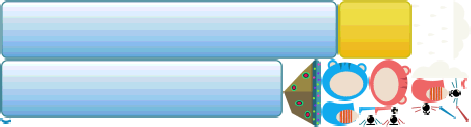
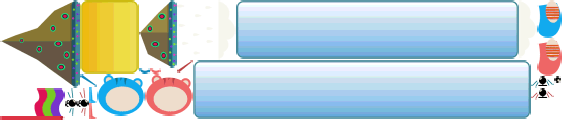
Dash game

diff --git a/goa/frameworks/runtime-src/Classes/mini_games/Dash.cpp b/goa/frameworks/runtime-src/Classes/mini_games/Dash.cpp
@@ -58,12 +58,17 @@ bool Dash::init()
 	Size visibleSize = Director::getInstance()->getVisibleSize();
 	Vec2 origin = Director::getInstance()->getVisibleOrigin();
 
+	_jumpCount = 0;
+	_enemyJumpCount = 0;
 
 	auto spritecache1 = SpriteFrameCache::getInstance();
 	spritecache1->addSpriteFramesWithFile("dash/dash.plist");
 
-	auto bg = CSLoader::createNode("dash/DashScene.csb");
-	this->addChild(bg);
+	_bg = CSLoader::createNode("dash/DashScene.csb");
+	if (visibleSize.width > 2560) {
+		_bg->setPositionX((visibleSize.width - 2560) / 2);
+	}
+	this->addChild(_bg);
 
 	_synonyms = TextGenerator::getInstance()->getSynonyms(5);
 	//CCLOG("synonyms = %s", _synonyms.at(1));
@@ -78,13 +83,17 @@ bool Dash::init()
 	_stepLayer->setPositionX(0);
 	this->addChild(_stepLayer);
 
-	int char_height = 500;
+	float xx;
+	float yy;
+
 	for (int j = 4; j > 0; j--) {  // j reffer to number of Players
 		for (int i = 1; i < 15; i++) {  // i reffer to number of steps (words)
 			auto obj1 = Sprite::createWithSpriteFrameName("dash/step.png");
 			obj1->setPositionX((visibleSize.width / 5) * i +(obj1->getContentSize().width/2)*j);
 			obj1->setPositionY(visibleSize.height * 0.4 +( (obj1->getContentSize().height/3) * j));
 			obj1->setAnchorPoint(Vec2(1, 0.5));
+			xx = (visibleSize.width / 5) * i + (obj1->getContentSize().width / 2)*j;
+			yy = (visibleSize.height * 0.4 + ((obj1->getContentSize().height / 3) * j));
 			_stepLayer->addChild(obj1);
 		}
 	}
@@ -95,19 +104,27 @@ bool Dash::init()
 	this->addChild(_character);
 	
 	for (int j = 0; j < 2; j++) {  
-		for (int i = 1; i < 3; i++) {  
+		for (int i = 0; i <2; i++) { 
 			auto obj1 = Sprite::createWithSpriteFrameName("dash/big_button.png");
-			obj1->setPositionX(visibleSize.width/5 *(i* 2));
+			float xx = visibleSize.width - (obj1->getContentSize().width * 2);
+			obj1->setPositionX((xx/3) *(i+1) + obj1->getContentSize().width/2 *(i+1) + obj1->getContentSize().width / 2 * (i));
 			obj1->setPositionY(obj1->getContentSize().height/1.3 + (visibleSize.height * 0.14) * (j));
 			this->addChild(obj1);
 			_choiceButton.pushBack(obj1);
 		}
 	}
 
+
 	_otherCharacter = CSLoader::createNode("dash/character.csb");
 	_otherCharacter->setPositionX((visibleSize.width / 5) + 220);
 	_otherCharacter->setPositionY((visibleSize.height * 0.4 * 1) + 320);
 	_stepLayer->addChild(_otherCharacter);
+
+
+	auto flag = Sprite::createWithSpriteFrameName("dash/flag.png");
+	flag->setPositionX(xx + 500);
+	flag->setPositionY(yy);
+	_stepLayer->addChild(flag);
 
 
 	wordGenerateWithOptions();
@@ -127,19 +144,41 @@ void Dash::wordCheck()
 
 void Dash::myCharacterJumping()
 {
+	_jumpCount++;
 	Size visibleSize = Director::getInstance()->getVisibleSize();
 	auto jump = JumpBy::create(2, Vec2(0, 0), 200, 1);
 	_character->runAction(jump);
 	wordCheck();
 	auto moveTo = MoveBy::create(2, Vec2(-(visibleSize.width / 5), 0));
-	_stepLayer->runAction(moveTo);
+	_stepLayer->runAction(Sequence::create(moveTo, CallFunc::create([=]() {
+		wordGenerateWithOptions();
+		
+	}), NULL));
+
+	if (_jumpCount > 10) {
+		auto moveTo = MoveBy::create(2, Vec2(-(visibleSize.width / 5), 0));
+		_bg->getChildByName("Panel_1")->getChildByName("extra")->setVisible(true);
+		///->runAction(moveTo);
+		//_stepLayer->runAction(moveTo);
+		_bg->getChildByName("Panel_1")->getChildByName("extra")->runAction(Sequence::create(moveTo, CallFunc::create([=]() {
+			if (_jumpCount == 14) {
+				//my character win!!
+				menu->showScore();
+			}
+			 }), NULL));
+	}
 }
 
 void Dash::otherCharacterJumping()
 {
+	_enemyJumpCount++;
 	Size visibleSize = Director::getInstance()->getVisibleSize();
 	auto jump = JumpBy::create(2, Vec2(visibleSize.width / 5, 0), 200, 1);
 	_otherCharacter->runAction(jump);
+	if (_enemyJumpCount == 14) {
+		//other character win!!
+		menu->showScore();
+	}
 }
 
 void Dash::wordGenerateWithOptions()
@@ -149,9 +188,10 @@ void Dash::wordGenerateWithOptions()
 	int size = _mapKey.size();
 	_gameWord = _mapKey.at(cocos2d::RandomHelper::random_int(0, size-1));
 	answer.push_back(_synonyms.at(_gameWord));
-	_topLabel = Label::createWithSystemFont(_gameWord.c_str(), "Arial", 100);
+	_topLabel = Label::createWithSystemFont(_gameWord.c_str(), "Arial", 200);
 	_topLabel->setPositionX(visibleSize.width/2);
-	_topLabel->setPositionY(visibleSize.height - _topLabel->getContentSize().height);
+	_topLabel->setPositionY(visibleSize.height - _topLabel->getContentSize().height/2);
+	_topLabel->setColor(Color3B(0, 0, 0));
 	this->addChild(_topLabel);
 
 	int randomInt1 = cocos2d::RandomHelper::random_int(0, size - 1);
@@ -165,7 +205,7 @@ void Dash::wordGenerateWithOptions()
 	for (int i = 0; i < _choiceButton.size(); i++) {
 		
 		auto str = answer.at(randomInt % (answerSize + 1));
-		auto myLabel = Label::createWithSystemFont(str, "Arial", 100);
+		auto myLabel = Label::createWithSystemFont(str, "Arial", 200);
 		myLabel->setName(str);
 		myLabel->setPositionX(_choiceButton.at(i)->getPositionX());
 		myLabel->setPositionY(_choiceButton.at(i)->getPositionY());
@@ -195,7 +235,6 @@ bool Dash::onTouchBegan(cocos2d::Touch * touch, cocos2d::Event * event)
 			}
 			_choiceLabel.clear();
 			myCharacterJumping();
-			wordGenerateWithOptions();
 		}
 		else {
 			auto mouthTimeline = CSLoader::createTimeline(("dash/character.csb"));

diff --git a/goa/frameworks/runtime-src/Classes/mini_games/Dash.h b/goa/frameworks/runtime-src/Classes/mini_games/Dash.h
@@ -29,13 +29,14 @@ protected:
 	std::vector <std::string> _mapKey;
 	cocos2d::Vector <cocos2d::Sprite *> _choiceButton;
 	cocos2d::Vector <cocos2d::Label *> _choiceLabel;
-	cocos2d::Node * _character, * _otherCharacter;
+	cocos2d::Node * _character, * _otherCharacter, *_bg;
 	void wordCheck();
 	MenuContext * menu;
 	void myCharacterJumping();
 	void otherCharacterJumping();
 	void wordGenerateWithOptions();
 	std::string _gameWord;
+	int _jumpCount, _enemyJumpCount;
 	virtual bool onTouchBegan(cocos2d::Touch *touch, cocos2d::Event * event);
 	
 };
